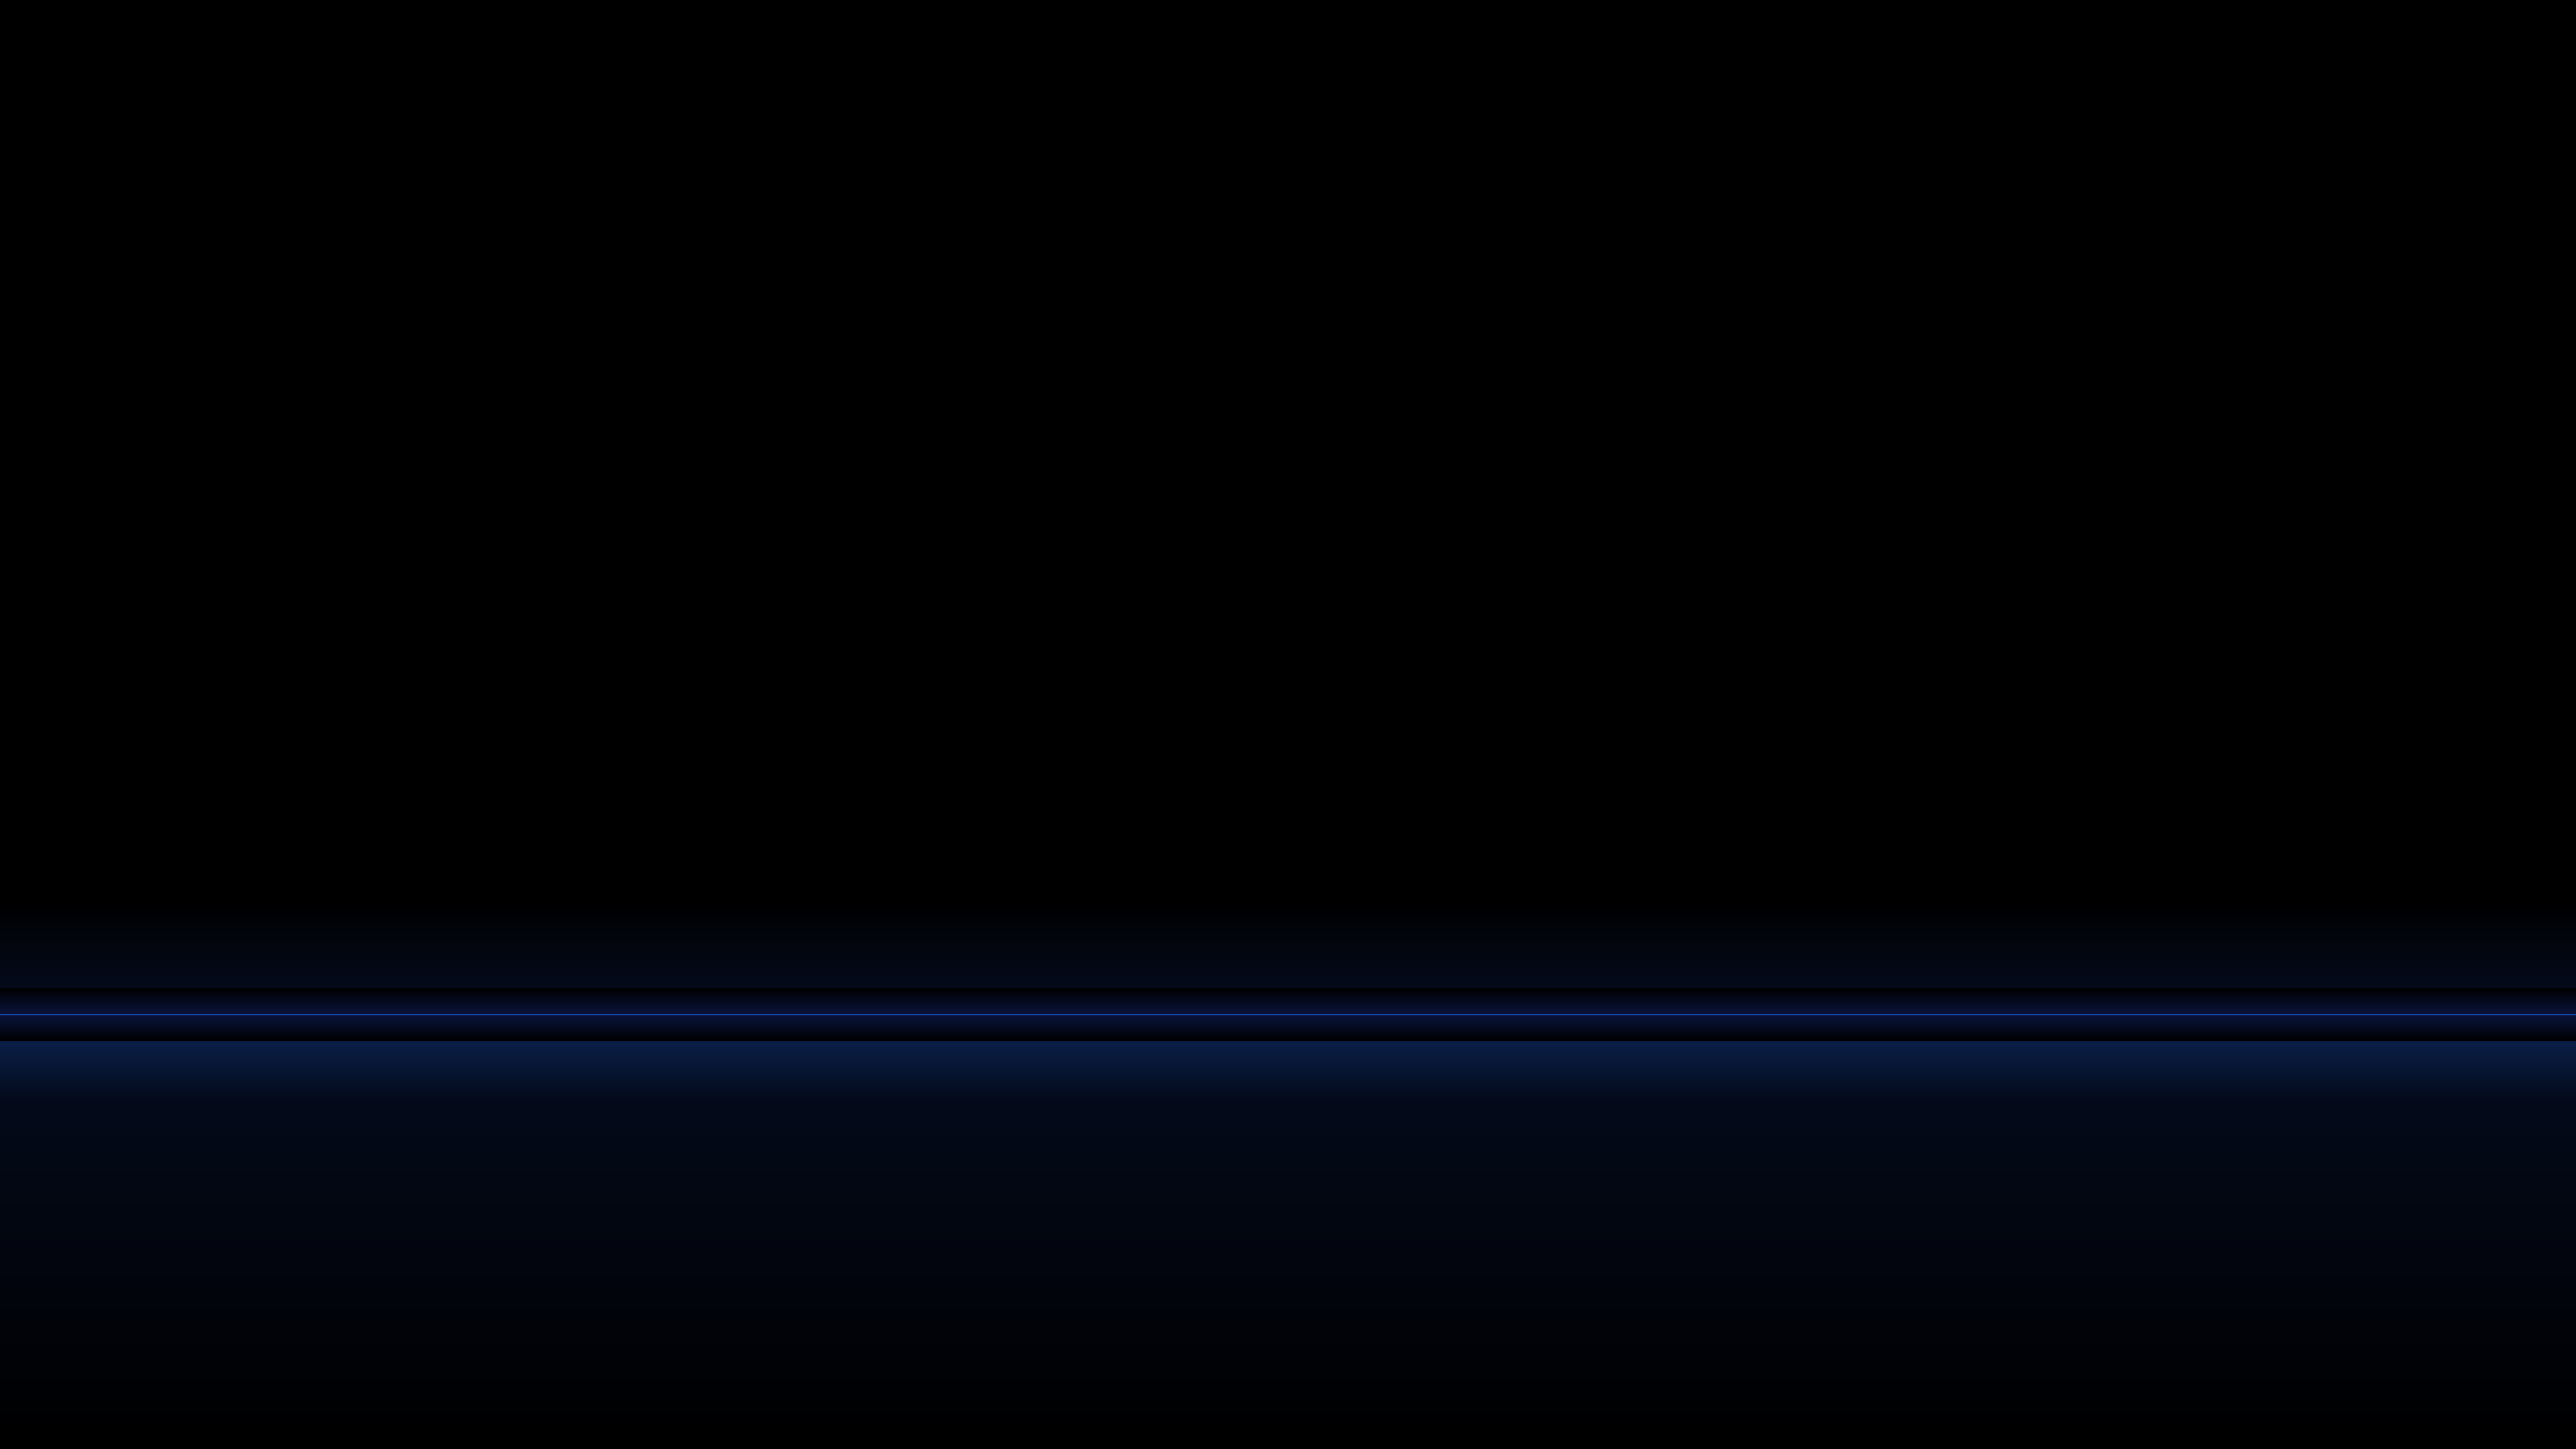
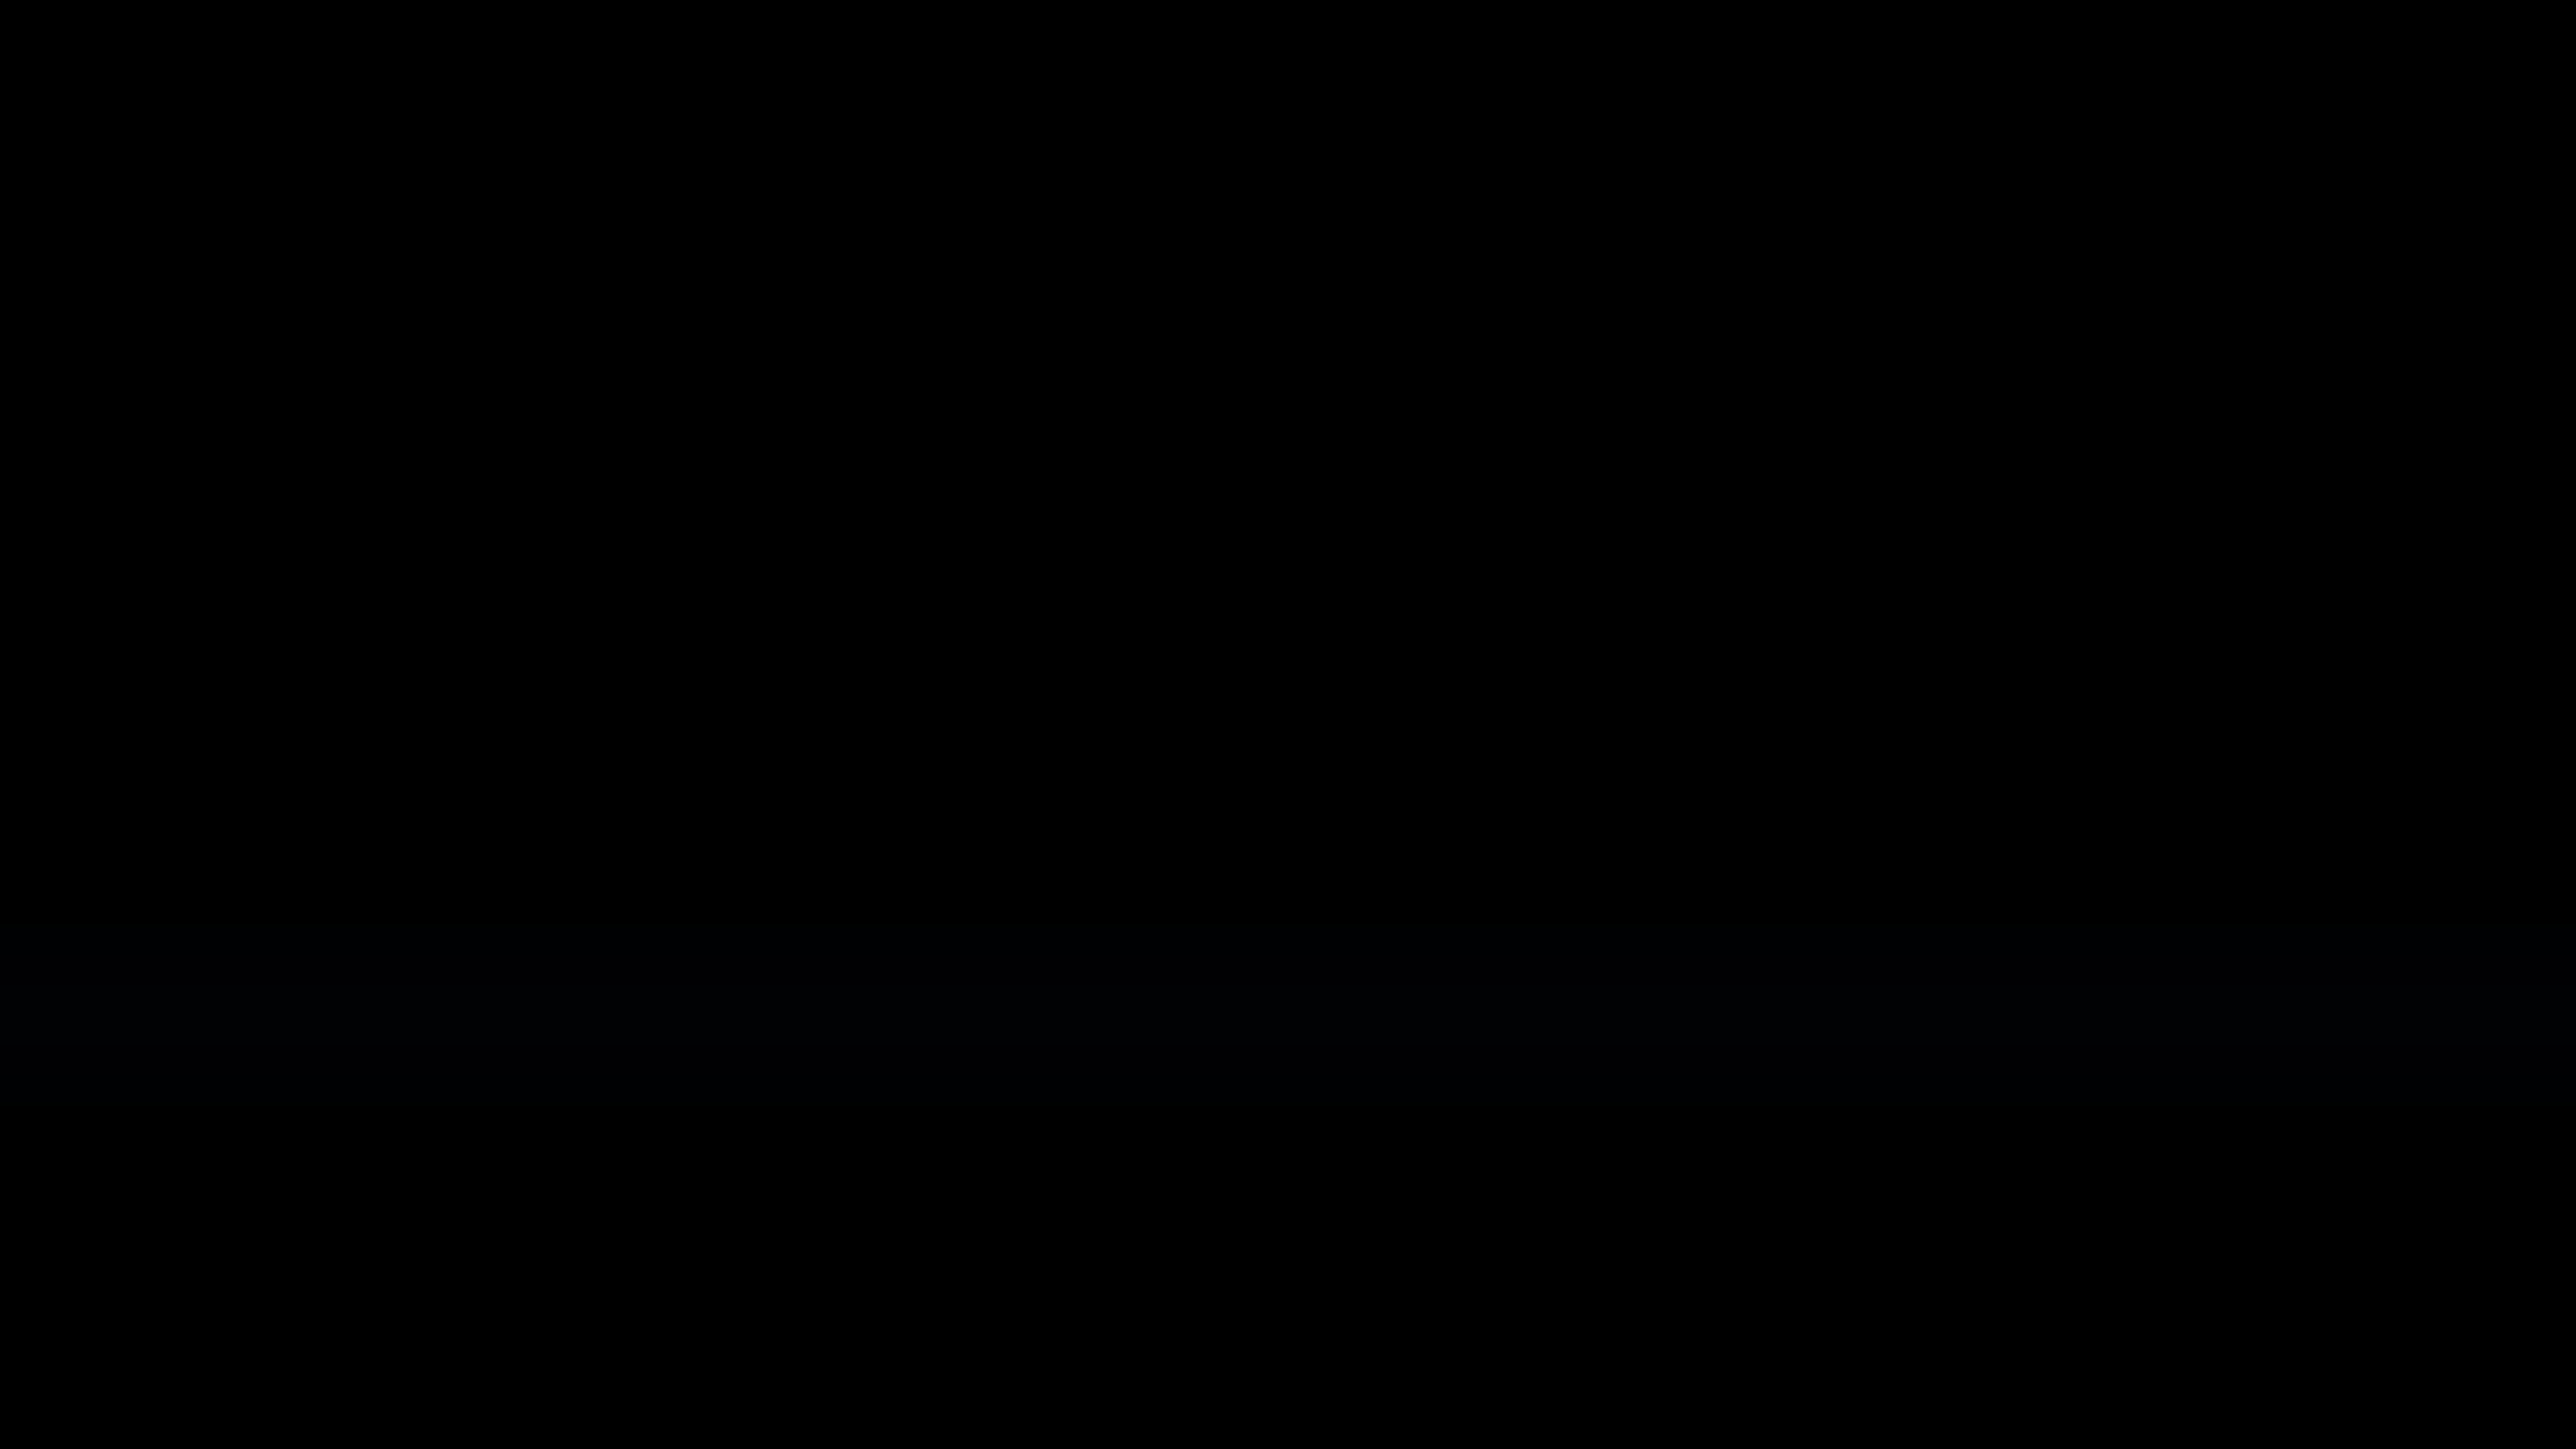
Add MIT license, embed palette preview, soften horizon glow

Changed region(s): [[0.0, 0.6824, 1.0, 0.7755]]

diff --git a/README.md b/README.md
@@ -2,6 +2,8 @@
 
 An [Omarchy](https://omarchy.org/) theme: the **Catppuccin Latte** palette on a **vantablack** base.
 
+![Sync palette](preview.png)
+
 - Vantablack surfaces: `#000000` → `#1a1a1a`
 - Catppuccin Latte chromatic accents: blue, red, peach, yellow, green, teal, mauve, pink
 - Latte blue `#1e66f5` accent and window border
@@ -52,3 +54,7 @@ Or manually: copy this directory to `~/.config/omarchy/themes/sync/` and run
 
 Terminals, Neovim, Helix, btop, GTK, the Omarchy shell and Hyprland borders are all generated
 from `colors.toml` by Omarchy — nothing else to configure.
+
+## License
+
+[MIT](LICENSE) © 2026 pxllbt
